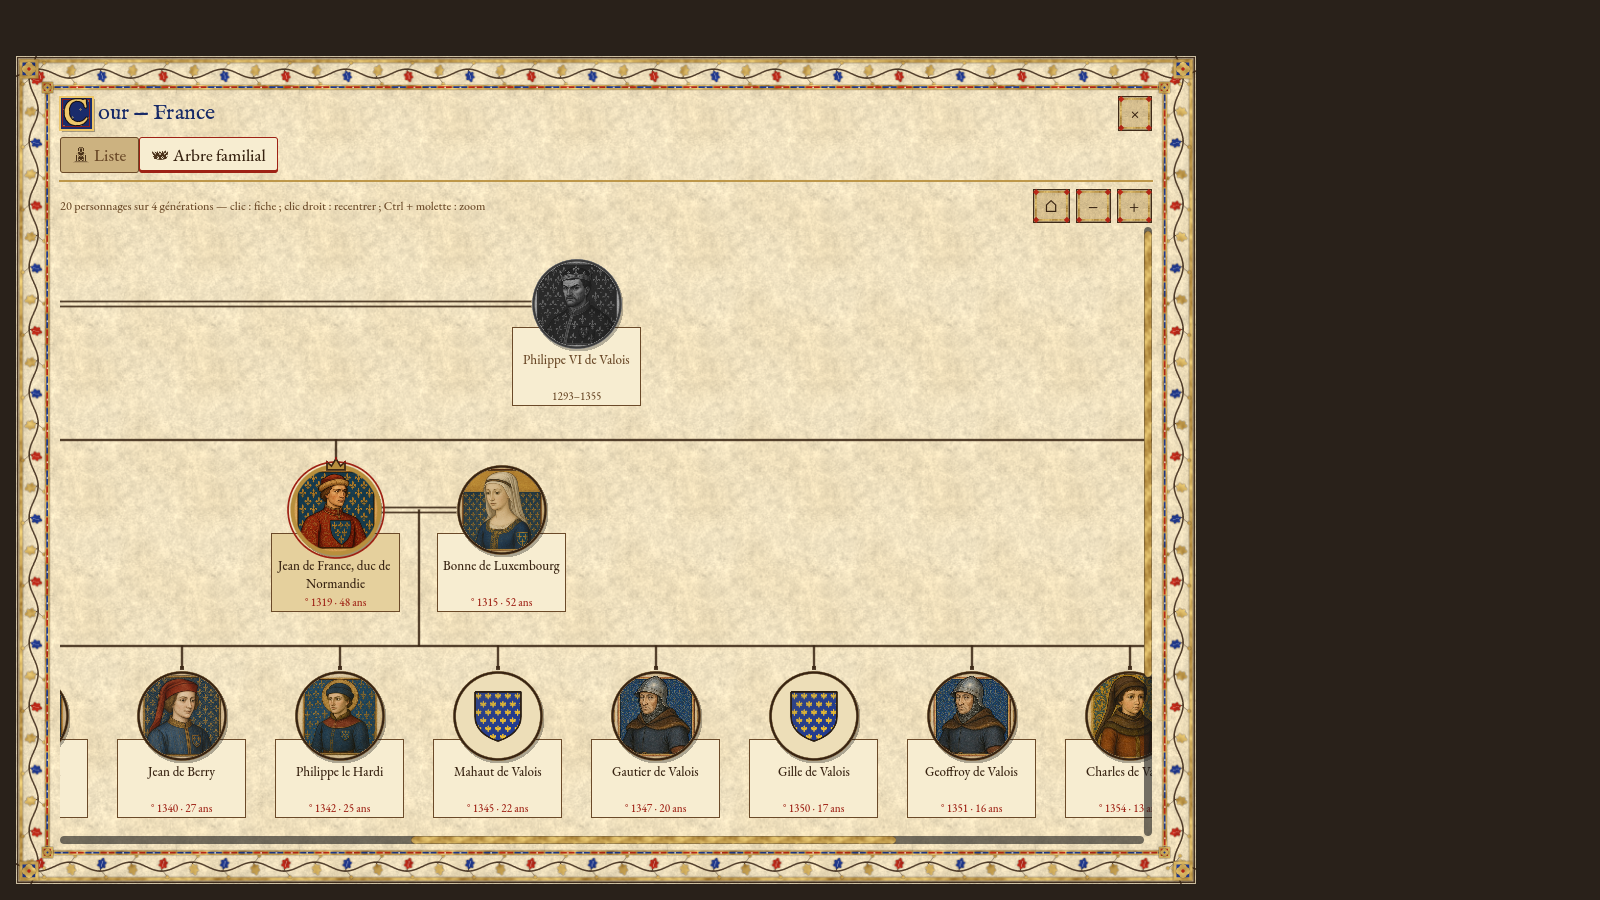
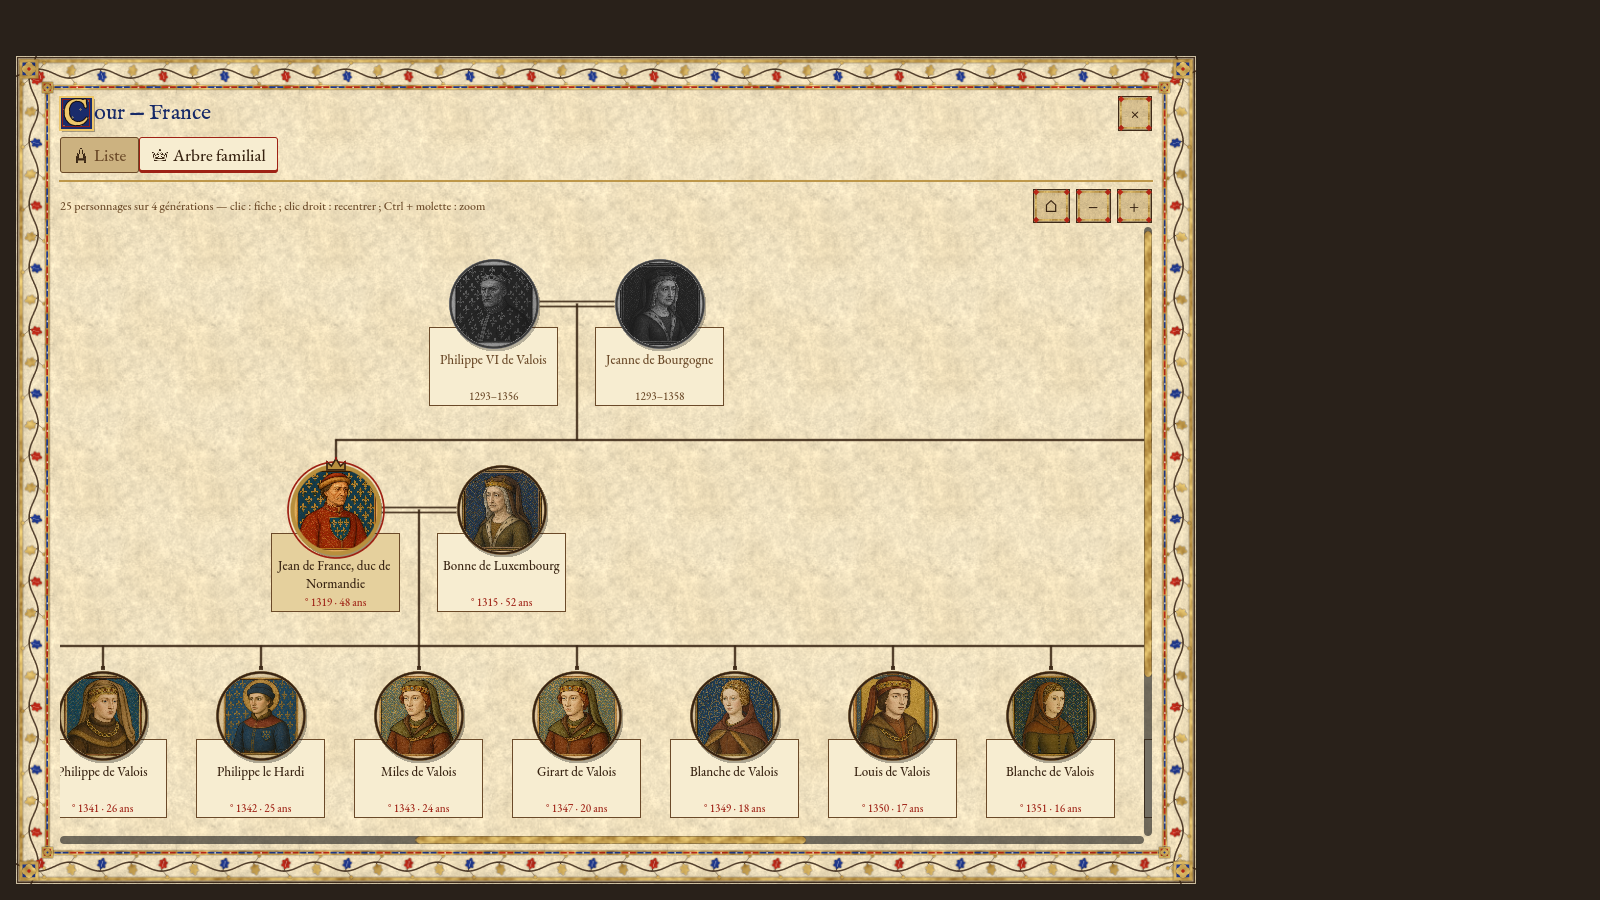
docs(da2): after captures with the full face bank, wip

diff --git a/docs/wip/da-direction-artistique.md b/docs/wip/da-direction-artistique.md
@@ -118,3 +118,11 @@ vignes : déjà faits en BV1 ou en cours dans EP6) ; « beauté de la carte » (
      puis fusionner main dans la branche, reconstruire la dylib (`CARGO_TARGET_DIR` partagé),
      et **ff main**.
   4. Nettoyer les worktrees d'agents fusionnés (DA2 : `.claude/worktrees/agent-ade9b18af852c5bfe`).
+- 26/09 après-midi : **reprise et fin de DA2.** Fusion de main (357 commits ; conflit
+  `portraits.generate` : nouvelles tentatives par image + coût réel des refus facturés de main,
+  test adapté). Défaut « Mahaut/Gille sans visage » : import Godot incomplet, disparu après
+  réimport. Nouveau défaut corrigé : **clones de fratrie** → miroir partagé (`LivingPortrait.mirrored`,
+  bit de `fnv1a`) dans le cadre et l'arbre, et **80 visages de plus** pour les cases peuplées
+  (nobles/chevaliers hommes 4, nobles femmes 3, enfants 3 ; **3,59 $**). Banque : 202 archétypes
+  + 25 variantes âgées. Budget DA : **17,88 $**. Smoke + test DA2 OK. Note : `da2_screenshot.gd
+  --out=` est relatif au dossier `game/` (utiliser le défaut).
